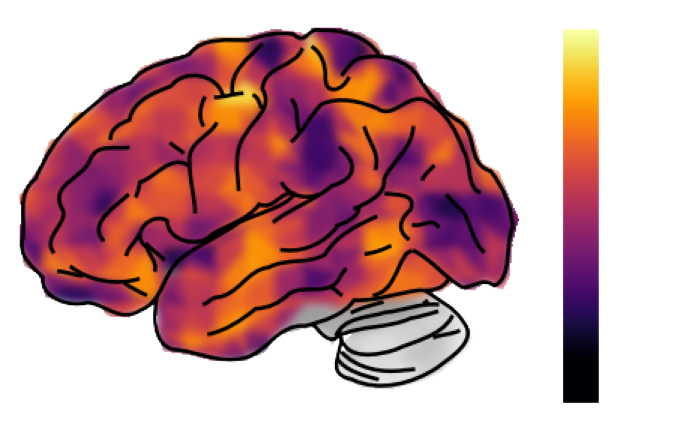
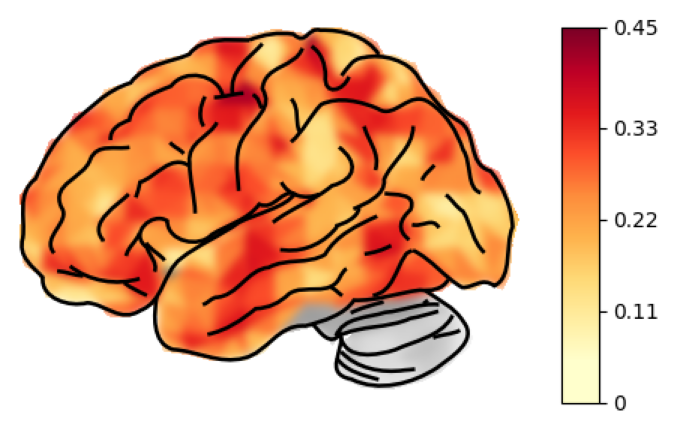
Switch brain figures to white background, YlOrRd colorscale, legible dark text; give Qwen game policy chain-of-thought

diff --git a/brainscore/visualization/brain_map.py b/brainscore/visualization/brain_map.py
@@ -85,7 +85,7 @@ def parcel_grid_heatmap(values: np.ndarray, *, ncols: int = 40,
     cb.set_label('value', fontsize=9)
     fig.tight_layout()
     if out_png:
-        fig.savefig(out_png, dpi=150, bbox_inches='tight', transparent=True)
+        fig.savefig(out_png, dpi=150, bbox_inches='tight')
         plt.close(fig)
         return out_png
     return fig
@@ -124,7 +124,7 @@ def network_strip(values: np.ndarray, parcel_names: Sequence[str], *,
     ax.spines[['top', 'right']].set_visible(False)
     fig.tight_layout()
     if out_png:
-        fig.savefig(out_png, dpi=150, bbox_inches='tight', transparent=True)
+        fig.savefig(out_png, dpi=150, bbox_inches='tight')
         plt.close(fig)
         return out_png
     return fig
@@ -244,7 +244,7 @@ def cortical_surface_map(parcel_values: np.ndarray, *, n_parcels: int = 1000,
                           cmap=cmap, threshold=threshold, vmin=vmin, vmax=vmax,
                           title=title)
     if out_png:
-        fig.savefig(out_png, dpi=150, bbox_inches='tight', transparent=True)
+        fig.savefig(out_png, dpi=150, bbox_inches='tight')
         plt.close(fig)
         return out_png
     return fig
@@ -280,7 +280,7 @@ def voxel_surface_map(voxel_values: np.ndarray, *, resolution: str = 'fsaverage5
                           cmap=cmap, threshold=threshold, vmin=vmin, vmax=vmax,
                           title=title)
     if out_png:
-        fig.savefig(out_png, dpi=150, bbox_inches='tight', transparent=True)
+        fig.savefig(out_png, dpi=150, bbox_inches='tight')
         plt.close(fig)
         return out_png
     return fig
@@ -343,19 +343,20 @@ def quickbrain_outline_map(parcel_values: np.ndarray, *, n_parcels: int = 1000,
     import matplotlib.pyplot as plt
 
     img = parcels_to_nifti(parcel_values, n_parcels=n_parcels, networks=networks)
-    quickbrain_kwargs.setdefault('cmap', 'inferno')   # sequential for 0+ data
-    quickbrain_kwargs.setdefault('background', 'transparent')  # transparent canvas
+    # White figure card + a bright warm sequential scale: the brain outline and
+    # low-activity cortex stay visible (a dark scale on the dark site did not),
+    # and dark axis/colorbar text is legible on white.
+    quickbrain_kwargs.setdefault('cmap', 'YlOrRd')
+    quickbrain_kwargs.setdefault('background', 'white')
     result = quickbrain.plot_brain(img, **quickbrain_kwargs)
-    # plot_brain renders to matplotlib; recover the figure whether it returns one
-    # or draws on the current figure.
     fig = result if hasattr(result, 'savefig') else plt.gcf()
     if title:
         try:
-            fig.suptitle(title, color='white')
+            fig.suptitle(title)
         except Exception:
             pass
     if out_png:
-        fig.savefig(out_png, dpi=150, bbox_inches='tight', transparent=True)
+        fig.savefig(out_png, dpi=150, bbox_inches='tight')
         plt.close(fig)
         return out_png
     return fig

diff --git a/scripts/vlm_game/play_vlm_game.py b/scripts/vlm_game/play_vlm_game.py
@@ -41,15 +41,18 @@ _WORD_TO_ACTION = {'up': 0, 'down': 1, 'left': 2, 'right': 3}
 DEFAULT_LADDER = [
     ('Qwen2.5-VL-3B', 'Qwen/Qwen2.5-VL-3B-Instruct', 'visual', False),
     ('Qwen2.5-VL-7B', 'Qwen/Qwen2.5-VL-7B-Instruct', 'visual', False),
-    ('Qwen3-8B-think', 'Qwen/Qwen3-8B', 'ascii', True),
 ]
 
 _VISUAL_PROMPT = (
-    "This is a grid game. A BLUE square is the player and a GREEN square is the "
-    "goal. You move the BLUE square one cell at a time.\n"
-    "Choose the single move that brings the BLUE square closer to the GREEN "
-    "square:\n- 'up' toward the top\n- 'down' toward the bottom\n- 'left'\n- "
-    "'right'\nAnswer with exactly one word: up, down, left, or right."
+    "This is a grid game. The BLUE square is the player; the GREEN square is the "
+    "goal. Row 0 is the top row; column 0 is the left column.\n"
+    "Think step by step:\n"
+    "1. State the (row, column) of the BLUE square.\n"
+    "2. State the (row, column) of the GREEN square.\n"
+    "3. Decide the single move that reduces the distance: 'up' decreases the "
+    "row, 'down' increases the row, 'left' decreases the column, 'right' "
+    "increases the column.\n"
+    "End your reply with a line exactly: Action: <up|down|left|right>"
 )
 
 _ASCII_PROMPT = (
@@ -98,10 +101,11 @@ def build_visual_policy(model_id):
                                              add_generation_prompt=True)
         inputs = processor(text=[text], images=[img], return_tensors='pt').to(device)
         with torch.no_grad():
-            out = model.generate(**inputs, max_new_tokens=8, do_sample=False)
+            # room to reason (chain-of-thought) before the Action line
+            out = model.generate(**inputs, max_new_tokens=200, do_sample=False)
         gen = out[0][inputs['input_ids'].shape[1]:]
         ans = processor.decode(gen, skip_special_tokens=True)
-        a = _parse_action(ans)
+        a = _parse_action(ans, prefer_last=True)   # take the final 'Action: <dir>'
         if a < 0:
             # Unparseable output collapses to a RANDOM action (not a biased
             # "always-right" walker) so a non-instruction-following model

diff --git a/website/make_vwfa_glass.py b/website/make_vwfa_glass.py
@@ -12,9 +12,6 @@ import os
 
 import numpy as np
 import nibabel as nib
-import matplotlib as mpl
-mpl.rcParams.update({'text.color': 'white', 'axes.labelcolor': 'white',
-                     'xtick.color': 'white', 'ytick.color': 'white'})
 import matplotlib.pyplot as plt
 from nilearn import datasets
 from scipy.ndimage import gaussian_filter
@@ -43,17 +40,13 @@ def main():
     blob = nib.Nifti1Image(vol, affine)
 
     out = os.path.join(ASSETS, 'vwfa_glass.png')
-    # sequential inferno (data is 0+), transparent canvas + light text for the
-    # dark site. quickbrain only supports lateral/medial views.
+    # White figure card, warm 'hot' overlay on the grey curvature brain, dark
+    # legible text. quickbrain only supports lateral/medial views.
     fig = quickbrain.plot_brain(blob, hemi='left', view='lateral', threshold=0.08,
-                                colorbar=True, cmap='inferno', background='transparent',
+                                colorbar=True, cmap='hot', background='white',
                                 title='ablated VWF population → VWFA')
     f = fig if hasattr(fig, 'savefig') else plt.gcf()
-    try:
-        f.suptitle('ablated VWF population → VWFA', color='white')
-    except Exception:
-        pass
-    f.savefig(out, dpi=150, bbox_inches='tight', transparent=True)
+    f.savefig(out, dpi=150, bbox_inches='tight')
     plt.close(f)
     print('wrote', out)
 

diff --git a/website/generate_assets.py b/website/generate_assets.py
@@ -8,11 +8,6 @@ only. Outputs PNGs into ./assets/.
 """
 import os
 import numpy as np
-import matplotlib as mpl
-# Light text + ticks so transparent figures read on the dark website panels.
-mpl.rcParams.update({'text.color': 'white', 'axes.labelcolor': 'white',
-                     'xtick.color': 'white', 'ytick.color': 'white',
-                     'axes.edgecolor': 'white'})
 
 from brainscore.visualization import (cortical_surface_map, quickbrain_outline_map,
                                        fetch_schaefer_fsaverage_annot)
